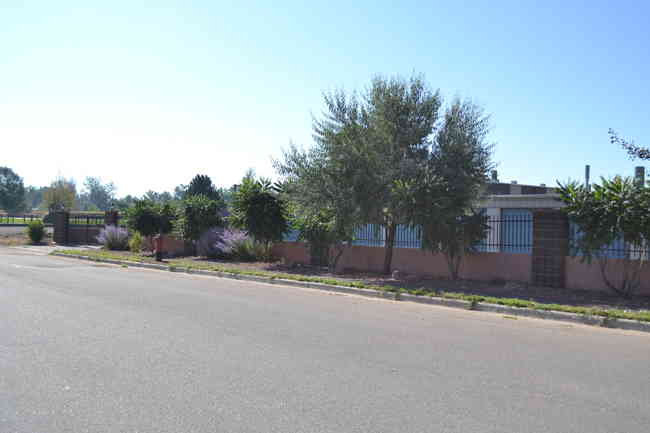
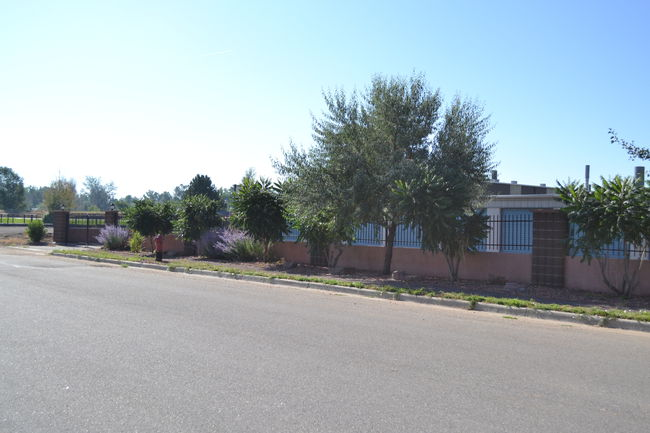
increased image quality

diff --git a/aaafford/Gruntfile.js b/aaafford/Gruntfile.js
@@ -16,17 +16,17 @@ module.exports = function(grunt) {
           sizes: [{
             width: 1200,
             suffix: 'large',
-            quality: 30
+            quality: 80
           },
                   {
             width: 800,
             suffix: 'med',
-            quality: 30
+            quality: 80
           },
                   {
             width: 650,
             suffix: 'sm',
-            quality: 30
+            quality: 80
           }]
         },
 
@@ -36,7 +36,7 @@ module.exports = function(grunt) {
         */
         files: [{
           expand: true,
-          src: ['*.{gif,jpg,png,JPG}'],
+          src: ['*.{gif,jpg,JPG}'],
           cwd: 'images_src/',
           dest: 'images/'
         }]
